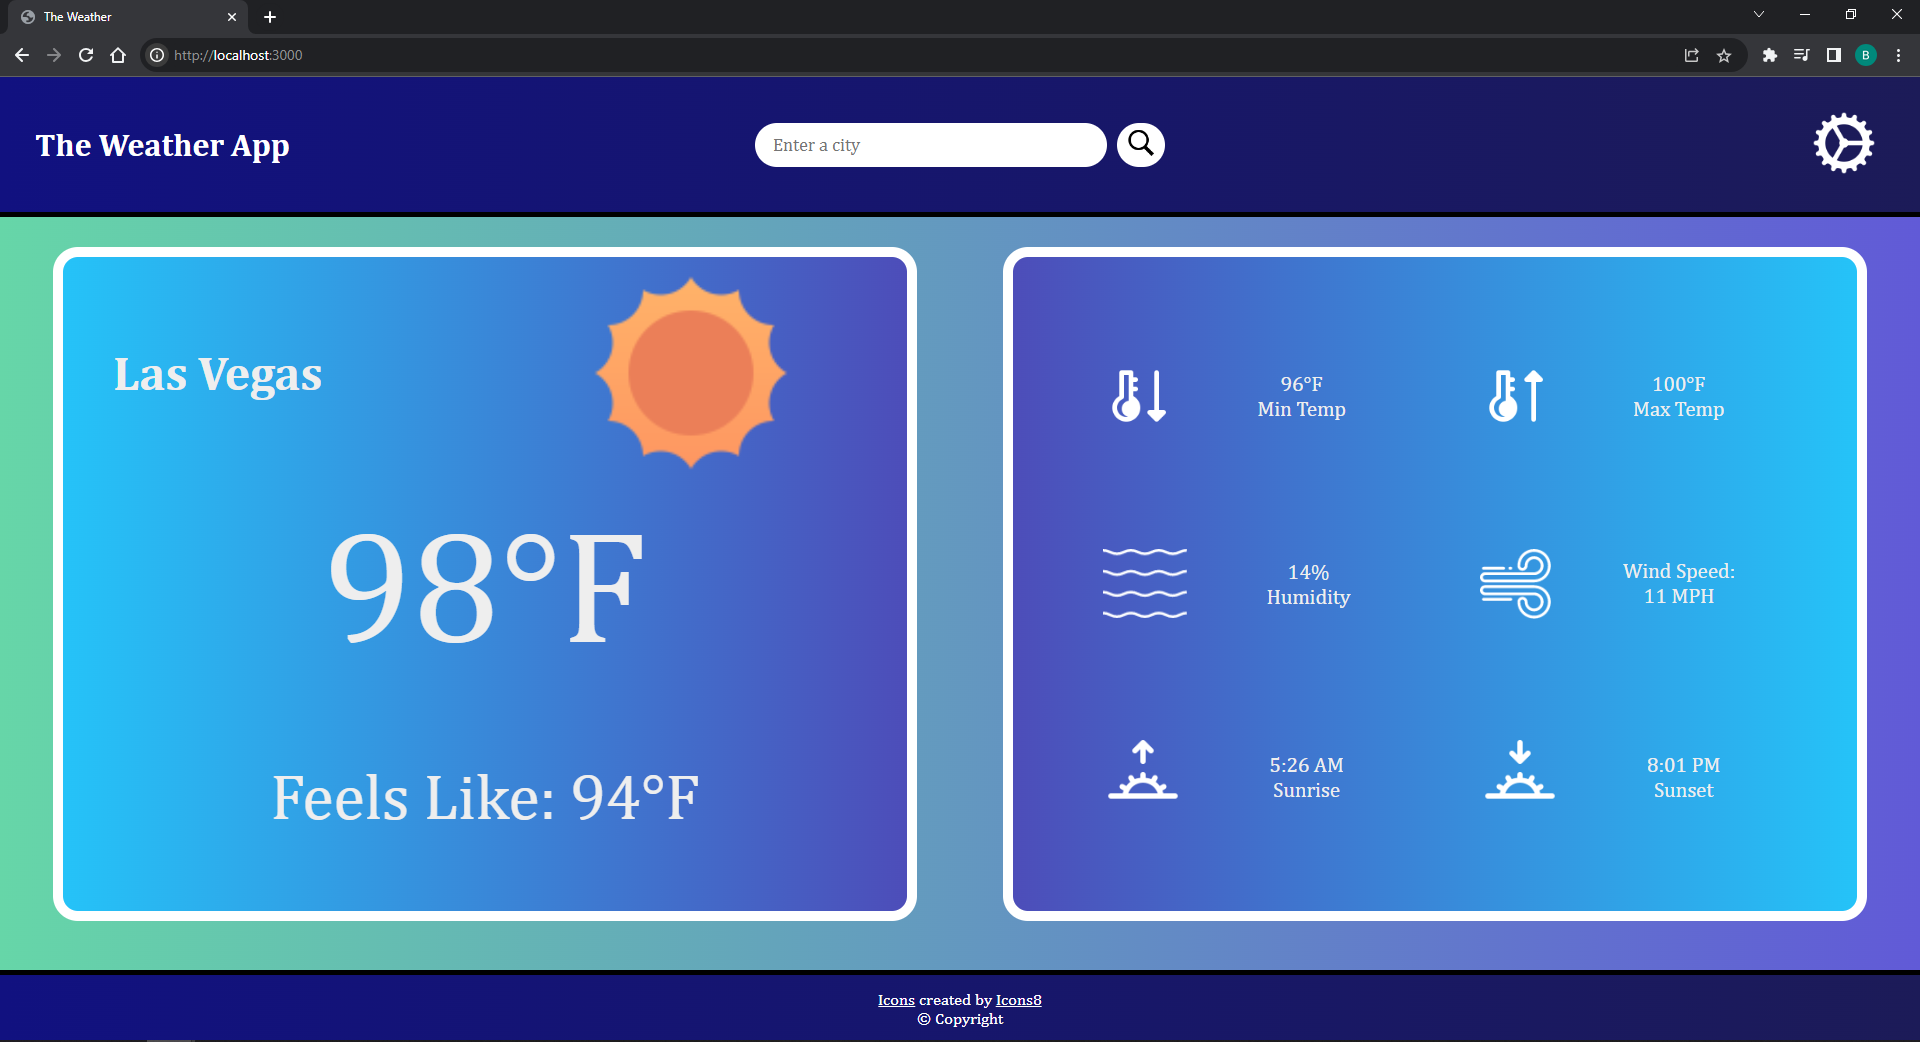
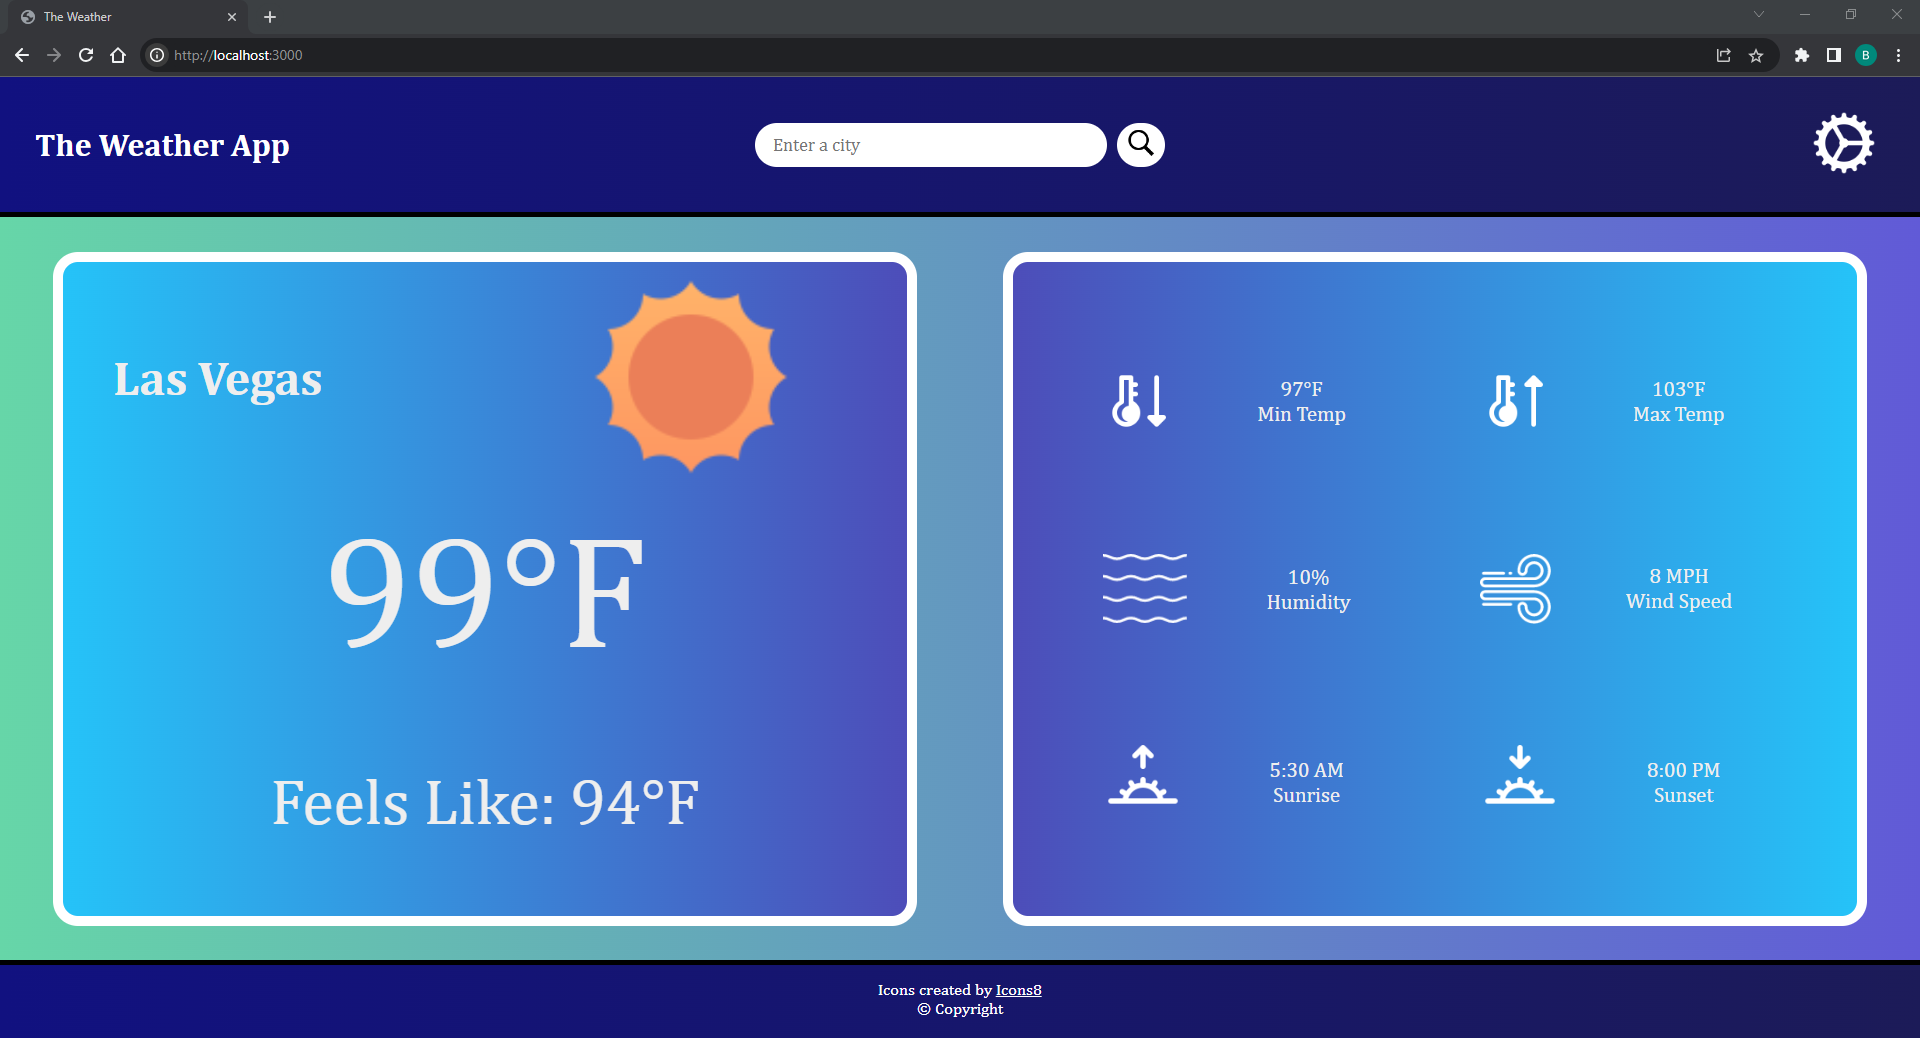
Updated Screenshot

diff --git a/weather_website/public/style.css b/weather_website/public/style.css
@@ -318,6 +318,10 @@ header #errorMessage{
     font-size: 1em;
 }
 
+.extraInfo{
+    display: block;
+}
+
 .extraInfo p{
     font-size: 1.3em;
     text-align: center;
@@ -380,6 +384,8 @@ header #errorMessage{
 
     display: block;
 }
+
+
 
 
 #sunset img, #sunrise img{
@@ -452,7 +458,12 @@ header #errorMessage{
         display: inline-block;
     }
 
-    #wind img, #minTemp img, #maxTemp img{
+    #wind{
+        display: flex;
+        flex-direction: column;
+    }
+
+    #minTemp img, #maxTemp img{
         margin-left:15px;
     }
  

diff --git a/weather_website/public/index.html b/weather_website/public/index.html
@@ -83,9 +83,8 @@
 
                 <div id="wind" class="extraInfo">
                     <img src="images/wind.png" alt="Wind Icon"><br>
-                    <p>Wind Speed:</p>
                     <p id="windText">-- MPH</p>
-
+                    <p>Wind Speed</p>
                 </div>
 
                 <div id="sunrise" class="extraInfo">
@@ -99,7 +98,6 @@
                     <p id="sunsetText">-:-- PM </p>
                     <p>Sunset</p>
                 </div>
-
 
             </div>
             </div>
